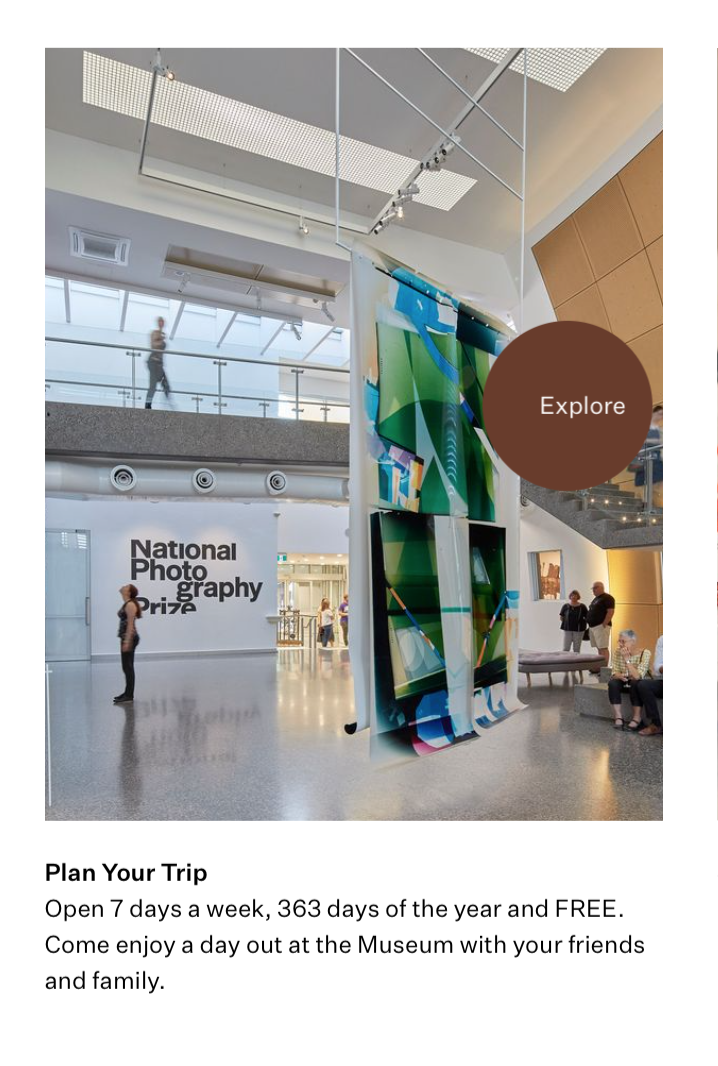
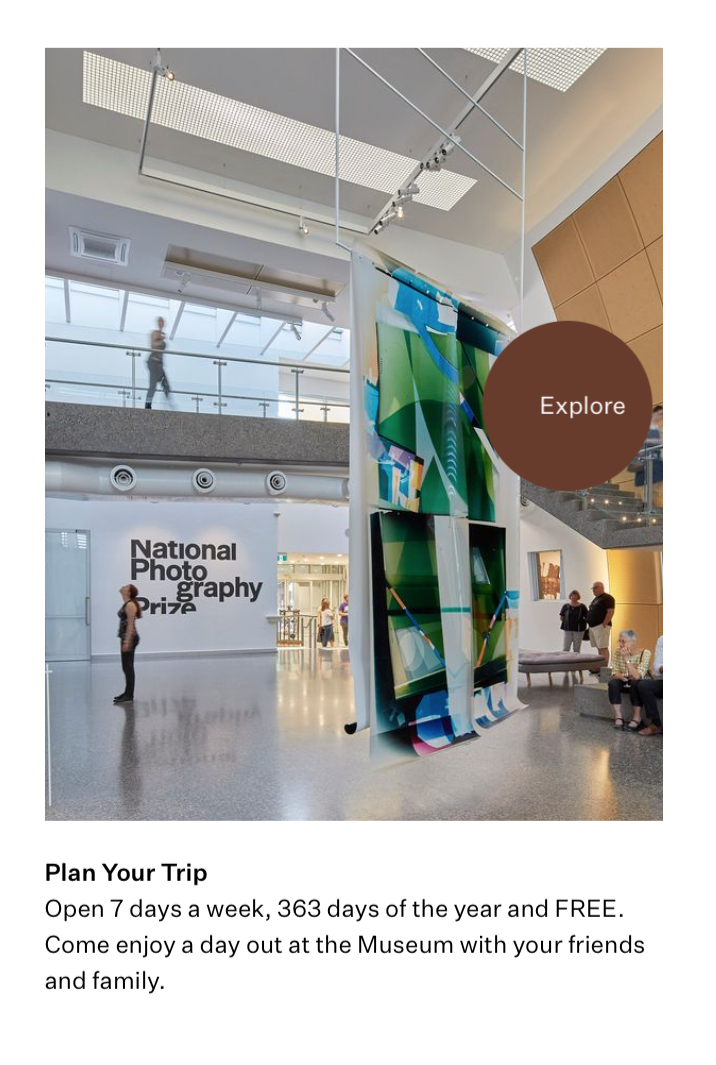
update image blur in css file

diff --git a/components/index.html b/components/index.html
@@ -263,14 +263,21 @@
                          <div class="colume-flex">
                               <h5 class="compoment-detaile-headings">| Coding: Explore circle cursor with Image</h5>
                                    <div class="article-container">
-                                   <img class="cursor-img article-imgs article-imgs__visit"
-                                        src="../img/plan_your_trip.jpeg" alt="museum lounge and art in middle" data-hover="Explore">
-                                   <div class="cursors">
-                                        <div class="circle circle-explore__brown"><span class="explore"></span></div>
-                                   </div>
+                                        <div class="img-container_zoom">
+                                             <a class="img-hover" href="https://www.mamalbury.com.au/plan-your-trip">
+                                             <img class="cursor-img article-imgs article-imgs__visit"
+                                             src="../img/plan_your_trip.jpeg" alt="museum lounge and art in middle" data-hover="Explore"></a>
+                                        </div>
+                                        <div class="cursors">
+                                             <div class="circle circle-explore__brown"><span class="explore"></span></div>
+                                        </div>
 
-                              <script src="../java/cursor.js"></script>
-                         </div><!--airticle container-->
+                                        <script src="../java/cursor.js"></script>
+                                        <div class="article-texts">
+                                             <p class="article_title">Plan Your Trip</p>
+                                             <p class="article_text">Open 7 days a week, 363 days of the year and FREE. Come enjoy a day out at the Museum with your friends and family.</p>
+                                        </div><!--airticle texts flowing by image-->
+                                   </div><!--airticle container-->
                          </div><!--col flex for coding-->
                     </div><!--row flex for image-->
                </div><!--components wrapper for link. button. icon-->

diff --git a/css/main.css b/css/main.css
@@ -172,6 +172,48 @@ cursor coding
   flex-direction: column;
   align-items: center;
 }*/
+.article-container {
+  display: flex;
+  flex-direction: column;
+  width: 320px;   /* <<<<<<< ----   this needs to change or remove */
+  padding-top: 2.2rem;
+}
+.colume-flex>* {
+  border: 1px solid red;
+}
+.img-container_zoom {
+  width: 320px;
+  height: 400px;
+  overflow: hidden;
+  margin: 0;
+  padding: 0;
+}
+.article-imgs {
+  max-width: 100%;
+  max-height: 100%;
+  transition: 0.75s;
+}
+.img-container_zoom:hover .article-imgs {
+  transform: scale(1.1);
+}
+.article-imgs:not(:hover) {
+  filter: blur(35px);
+  -webkit-transition: 50ms ease 50ms;
+  -moz-transition: 50ms ease 50ms;
+  transition: 300ms ease 1500ms;
+}
+.article-texts {
+  font-size: 0.84rem;
+  padding: 1rem 0 1rem;
+}
+.article_title {
+  font-weight: 500;
+  line-height: 0;
+}
+.article_text {
+  font-weight: 400;
+  line-height: 1.35;
+}
 div.cursors div.circle {
   position: absolute;
   top: 0px;
@@ -194,19 +236,17 @@ div.cursors div.circle span.explore {
   color: var(--whtie);
   text-align: center;
 
-  opacity: 0;
-  transition: opacity 0.5s;
-  transform: scale(0, 0);
-  transform-origin: left;
+  transform: scale(0);
+  transform-origin: center;
   transition: transform 200ms ease-in;
 }
 .div.cursors div.circle span.explore.visible {
-  opacity: 1;
-  transform: scale(1, 1);
+  transform: scale(1);
 }
 .circle-explore__brown {
   background-color: var(--brown);
 }
+
 /*  header /  Navigation    -----------^.-.^------------ */
 .header {
   position: sticky;
@@ -618,8 +658,4 @@ _____screen shot images adjustments only_____
 }
 .screen_shot_imgs--button {
   width: 88%;
-}
-.article-imgs__visit {
-  padding-top: 2.2rem;
-  width: 70%;
 }
